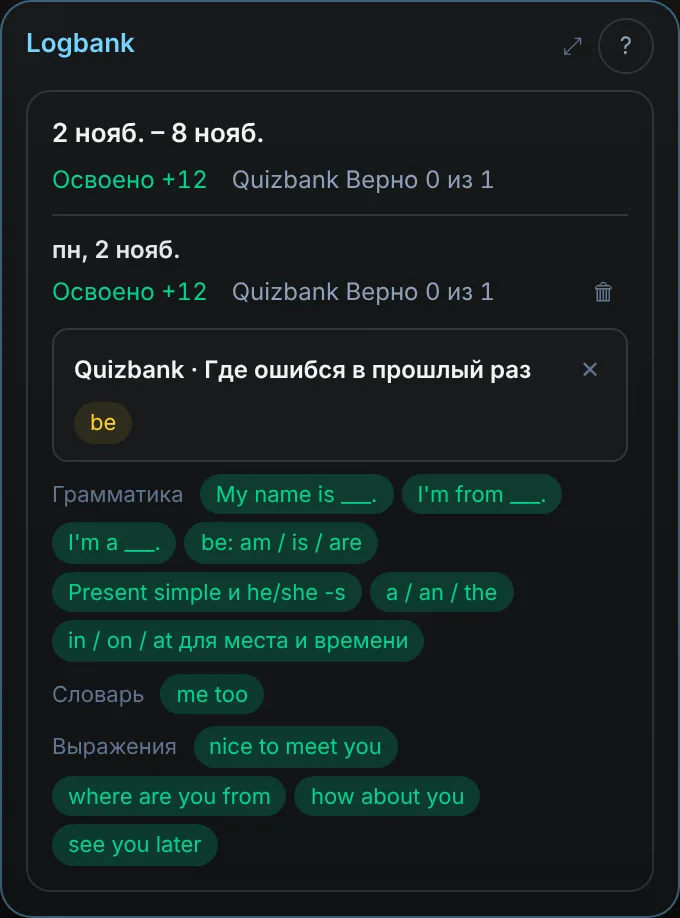
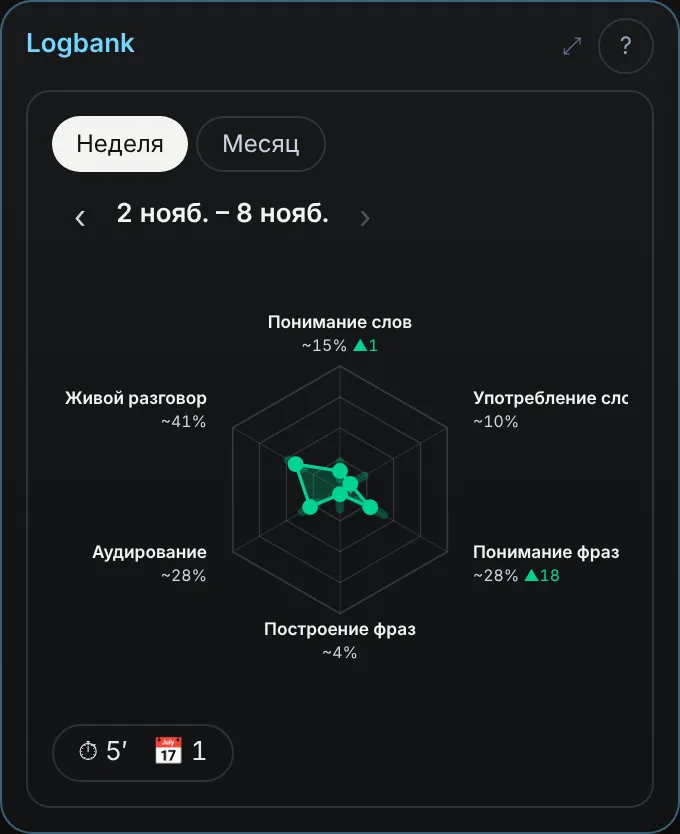
Logbank 그림 러시아어까지 교체(14개 언어 끝)
Claude-Session: https://claude.ai/code/session_01R73CvMggsTZQAgMsCeP7L3

diff --git a/hub/log/2026-11.md b/hub/log/2026-11.md
@@ -1144,3 +1144,12 @@
 - 학습 점검: 퀴즈 문제는 안 바꿈(기록만 더함) — 칸 화면 "공부할 것"은 맞힌 적 없는 소재만, 답 노출 없음.
 - 구조: STRUCTURE 위쪽 Logbank 줄 · 자리표 그대로(studyMap/ 폴더) · structure.mjs 다시 씀
 - 운영 확인(감독 칸, 서버 바로): `open-talk-es` 차례 넷을 운영 /api/roleplay/turn으로 — 되묻는 긴 답 = heard yes·lead lead/ask·fn self, "Sí, sí." = vague·min·stuck, 엉뚱한 답 = off(다만 lead도 lead/topic으로 옴 — 딴소리가 이끎으로 셈될 수 있음, 지켜볼 것), 한국어 섞임 = native true. 시험 사용자 `simcheck-hex-`·`simcheck-turnprobe-` 지움(남은 것 0).
+
+## 2026-11-02 dev(탭 2 My) — 2.79 그림: Logbank만 교체(서버 바로 — /guide 그림·/api/guide 글)
+- 사용자 "2.79에 들어갈 스크린샷 — 있는 건 두고 개편된 Logbank만 교체", "다 만들지 말고 Logbank 부분만". 
+- Logbank ? 설명·사용법 My 장 그림만 14개 언어 다시 찍음(`ONLY=log node scripts/capture-bank-guide.mjs`): bank-log-week = 육각형 칸, bank-log-axis(새) = 꼭짓점 화면 [품사], bank-log-day = 그날 세부. Stagebank·Quizbank 그림·새로워진 점·스토어 스크린샷은 그대로.
+- 글: `lib/guide/banks.ts` Logbank 줄 14개 언어(육각형·📎 기록·꼭짓점·▼ 부족 칸·⏱ 막대), 사용법 My 장 "3. Logbank" 한 줄 14개 언어. 꼭짓점 화면 단계 칸 1→5 차례·% 표시(앱 빌드).
+- 그림 재료: 서버 기록(문장구조 둘·상황 하나 통과) + 이 폰 Quizbank 열흘·통화 둘(차례 셈)을 넣은 시험 사용자 `simcheck-bankshot-*`(끝날 때 지움).
+- 어긋난 점: 러시아어 육각형 "Употребление слов"가 작은 칸에서 오른쪽 끝이 잘림, 아랍어 게이지는 5→1로 뒤집혀 보임(칸 흐름이 오른쪽부터), 품사 칩에 ▼ 부족이 안 나옴(넣은 기록이 고르게 맞음).
+- 확인: banks·chapters 테스트, check:languages 통과.
+- 구조: 변화 없음
